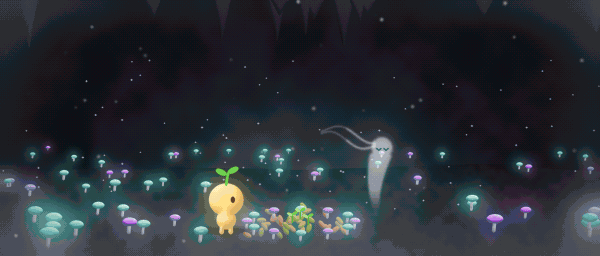
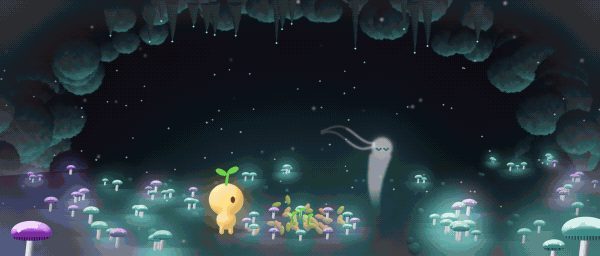
Ilustración de la cueva de las setas: bóveda de roca iluminada por las setas, estalactitas, suelo con piedras y setas con más detalle

diff --git a/herramientas/cinematicas_sendero.py b/herramientas/cinematicas_sendero.py
@@ -1120,32 +1120,67 @@ def eco_cueva():
     — «Lo necesario casi nunca es bonito.» — «Una seta que mandara en vez de servir... eso sí sería feo.»"""
     lz = Lienzo(W, H, semilla=200)
     rng = np.random.default_rng(201)
-    # la cueva: roca oscura, más clara en el centro, con estalactitas arriba
+    # la cueva: al fondo, la oscuridad honda; alrededor, una bóveda de rocas redondeadas que solo ilumina,
+    # desde abajo, la luz verde-agua y violeta de las setas
     fondo = np.clip(1 - np.hypot((lz.x - 300) / 330, (lz.y - 150) / 200), 0, 1)
-    lz.pintar(np.ones((lz.H, lz.W)), rampa(["#050408", "#0c0a12", "#16121e", "#221c2c", "#30283c"],
-                                           np.clip(fondo * 0.8 + (lz.ruido(30, 3, semilla=202) - 0.5) * 0.25, 0, 1)))
-    for k in range(12):
-        x = rng.random() * W
-        largo = 14 + rng.random() * 36
-        est = lz.poligono([(x - 6 - rng.random() * 6, 0), (x + 6 + rng.random() * 6, 0), (x + rng.random() * 2, largo)])
-        lz.sombrear(est, ["#08060c", "#141018", "#221c28", "#342a3a"], 4, LUZ)
+    lz.pintar(np.ones((lz.H, lz.W)), rampa(["#030306", "#07060c", "#0c0a14", "#12101c"], np.clip(fondo * 0.7 + (lz.ruido(30, 3, semilla=202) - 0.5) * 0.1, 0, 1)))
+    ROCA = ["#050409", "#09080f", "#0f0f18", "#161a22", "#1e282c", "#2a3c3c", "#3a5450"]
+    LUZ_ABAJO = (0.15, 0.85, 0.5)
+    rocas = []
+    for k in range(70):                       # la bóveda: un arco de rocas (más grandes en los lados)
+        a = np.pi * (k / 69)
+        rx, ry = 300 - np.cos(a) * rng.uniform(250, 330), 165 - np.sin(a) * rng.uniform(150, 190)
+        rocas.append((rx, ry, rng.uniform(14, 30) * (1.2 - 0.5 * np.sin(a))))
+    for k in range(22):                       # los lados, hasta el suelo
+        lado = -1 if k % 2 else 1
+        rocas.append((300 + lado * rng.uniform(230, 320), rng.uniform(100, 190), rng.uniform(18, 34)))
+    ci.bolas(lz, rocas, ROCA, luz=LUZ_ABAJO, ruido_borde=0.06, textura=lz.ruido(4, 2, semilla=209), fuerza_tex=0.15,
+             ambiente=0.05, filo=("#5ae0c0", 0.3), filo_dir=(0.0, 1.0), plano=1.8, suave=0.35)
+    # estalactitas que cuelgan de la bóveda, con la punta mojada que brilla
+    for k in range(16):
+        x = 60 + rng.random() * 480
+        y0 = 40 - 34 * np.cos((x - 300) / 300 * np.pi / 2) ** 0.5 + rng.uniform(-4, 6)
+        largo = 12 + rng.random() * 30
+        ancho = 3 + rng.random() * 4
+        est = lz.poligono([(x - ancho, y0 - 10), (x + ancho, y0 - 10), (x + ancho * 0.4, y0 + largo * 0.7), (x + 0.3, y0 + largo)])
+        lz.sombrear(est, ROCA[1:6], ancho * 0.8, LUZ_ABAJO, textura=((lz.y * 1.3 % 3) < 0.6) * 1.0, fuerza_tex=-0.2)
+        lz.pintar(lz.circulo(x + 0.3, y0 + largo + 1.2, 0.7), "#b8fff0", 0.9)
+    # el suelo: tierra oscura con piedras, que las setas iluminan por manchas
     suelo = lz.poligono([(0, 176), (120, 166), (300, 170), (480, 164), (600, 172), (600, 256), (0, 256)])
-    lz.pintar(suelo, rampa(["#0e0a12", "#1a141e", "#261e2a", "#342a38"], np.clip((lz.y - 166) / 90 + (lz.ruido(8, 2, semilla=203) - 0.5) * 0.3, 0, 1)))
-    # las setas que brillan, por todas partes (más grandes delante)
+    lz.pintar(suelo, rampa(["#07060a", "#0e0c14", "#16141e", "#201e2a"], np.clip((lz.y - 166) / 90 + (lz.ruido(8, 2, semilla=203) - 0.5) * 0.2, 0, 1)))
+    piedras = [(rng.random() * W, 172 + rng.random() * 80, 0) for _ in range(40)]
+    piedras = [(x, y, 1.5 + (y - 166) / 90 * 5 * rng.uniform(0.5, 1.2)) for (x, y, _) in piedras if not (200 < x < 400 and y > 196)]
+    ci.bolas(lz, piedras, ROCA[1:7], luz=(0.2, -0.9, 0.5), ruido_borde=0.2, ambiente=0.1, plano=1.6, suave=0.4)
+    # las setas que brillan, por todas partes (más grandes delante, a veces en racimos)
     def seta(x, y, r, col):
-        lz.sumar_luz(lz.desenfocar(lz.circulo(x, y - r * 1.4, r * 2.2), r * 1.6), col[2], 0.35)
-        lz.sombrear(lz.trazo([(x, y), (x + r * 0.15, y - r * 1.4)], r * 0.32, r * 0.24), ["#5a5262", "#8a8094", "#c8c0d0", "#eee8f4"], r * 0.2, LUZ)
-        som = lz.elipse(x + r * 0.15, y - r * 1.5, r, r * 0.55)
-        lz.sombrear(som, col, r * 0.4, LUZ)
-        lz.sumar_luz(som, col[3], 0.25)
+        lz.sumar_luz(lz.desenfocar(lz.elipse(x, y + 0.5, r * 3.2, r * 0.9), r * 1.2) * (lz.y > y - r * 0.2), col[2], 0.3)   # su luz en el suelo
+        lz.sumar_luz(lz.desenfocar(lz.circulo(x, y - r * 1.4, r * 2.4), r * 1.8), col[2], 0.3)
+        pie = lz.trazo([(x, y), (x + r * 0.15, y - r * 1.4)], r * 0.32, r * 0.22)
+        lz.sombrear(pie, ["#4a4252", "#8a8094", "#c8c0d0", "#eee8f4"], r * 0.2, (-0.5, -0.4, 0.6))
+        som = lz.elipse(x + r * 0.15, y - r * 1.5, r, r * 0.55) * (lz.y < y - r * 1.25)
+        laminas = lz.elipse(x + r * 0.15, y - r * 1.27, r * 0.92, r * 0.18)
+        lz.pintar(laminas * (np.sin(lz.x * 6 / max(r * 0.12, 0.3)) > 0), col[1], 0.9)
+        lz.pintar(laminas * (np.sin(lz.x * 6 / max(r * 0.12, 0.3)) <= 0), col[0], 0.9)
+        lz.sombrear(som, col, r * 0.45, (-0.3, -0.9, 0.5))
+        lz.sumar_luz(som, col[3], 0.22)
+        if r > 4:
+            for _ in range(int(r * 0.7)):
+                a_ = rng.uniform(0.3, 2.8)
+                lz.pintar(lz.circulo(x + r * 0.15 - np.cos(a_) * r * 0.65, y - r * 1.5 - np.sin(a_) * r * 0.3, r * 0.09), col[3], 0.8)
     VERDE = ["#0e3a3a", "#1e7a6e", "#5ae0c0", "#c8fff0"]
     VIOLETA = ["#2a1040", "#6a2a9a", "#b070e0", "#f0d8ff"]
-    for k in range(70):
+    sitios = []
+    for k in range(46):
         x = rng.random() * W
-        y = 150 + rng.random() * 100
-        if 210 < x < 400 and y > 180:
+        y = 160 + rng.random() * 90
+        if 200 < x < 410 and y > 180:
             continue
-        seta(x, y, 2 + (y - 150) / 100 * 7 * rng.uniform(0.6, 1.2), VERDE if k % 3 else VIOLETA)
+        sitios.append((y, x, k))
+        if rng.random() < 0.5:                                  # un racimo: dos o tres más pequeñas al lado
+            for j in range(rng.integers(1, 3)):
+                sitios.append((y + rng.uniform(-1, 2), x + rng.uniform(-8, 8) * (1 + (y - 160) / 60), k))
+    for (y, x, k) in sorted(sitios):
+        seta(x, y, (2 + (y - 150) / 100 * 7) * rng.uniform(0.55, 1.15), VERDE if k % 3 else VIOLETA)
     # en el centro: el montón de hojas caídas y el corro de setas pequeñas que se las come; de la tierra brotan hojitas
     YM = 222
     for k in range(40):
@@ -1172,6 +1207,10 @@ def eco_cueva():
     lz.sumar_luz(motas, "#e6d0ff", 0.7)
     lz.pintar(np.ones((lz.H, lz.W)), "#3e8a86", 0.06)
     ci.marco_recuerdo(lz, color="#4a4058", semilla=204)
+    # dos setas enormes en primer plano, en las esquinas (dan profundidad; por delante del velo del recuerdo)
+    seta(28, 262, 20, VIOLETA)
+    seta(582, 266, 24, VERDE)
+    seta(552, 262, 11, VERDE)
     return lz
 
 

diff --git a/documentacion/decisiones.md b/documentacion/decisiones.md
@@ -194,3 +194,4 @@ se pasan.
 | El Primer Árbol en los ecos 15 y 23 | Era una nube amarilla con un palo; ahora usa el mismo árbol de racimos dorados, tronco y raíces que el primer eco (`_primer_arbol` llama a `_arbol_dorado`) |
 | La pared de la Cañada en el 17 | Era un polígono negro plano; ahora es roca con escalones, estratos, grietas, un canto iluminado por el horizonte y hierbas arriba |
 | Las paredes de la Cañada (16) | Eran una masa oscura borrosa; ahora son capas de roca apiladas con juntas onduladas, el canto de cada capa con luz y hierba, sombra debajo, algunas grietas y la cara del hueco encendida por el sol |
+| La cueva de las setas (20) | Era un fondo negro con setas; ahora tiene una bóveda de rocas que iluminan las setas desde abajo, estalactitas con gotas que brillan, suelo con piedras y charcos de luz, setas con láminas, motitas y racimos, y dos setas enormes delante |
